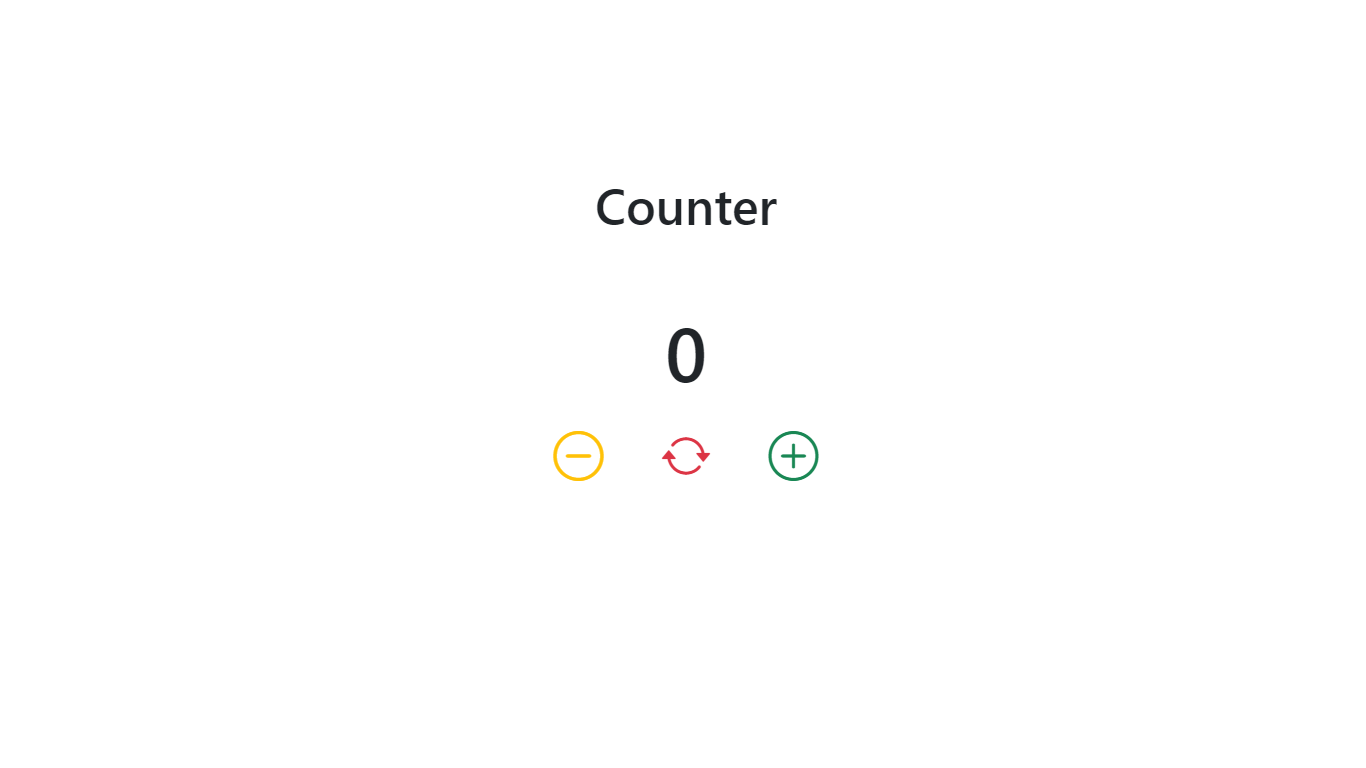
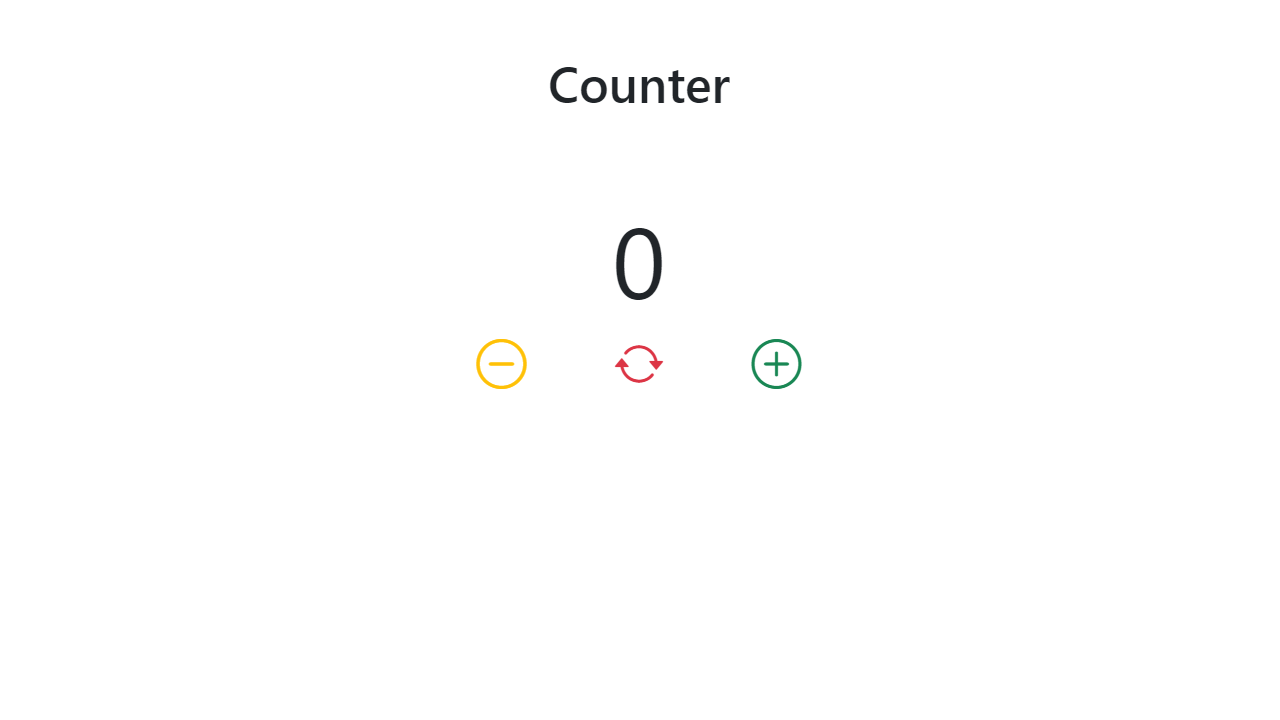
Project 01

diff --git a/src/apps/Counter.js b/src/apps/Counter.js
@@ -24,28 +24,30 @@ const Counter = () => {
     return (
         <>
             <Nav></Nav>
-            <section className='container mt-5 counter-container'>
-                <div className='w-50 text-center mt-5 pb-5'>
-                    {/* heading */}
-                    <div className='h1 mt-5'>
-                        Counter
+            <section className='container mt-5'>
+                <div className='row text-center'>
+                    <div className='col'>
+                        <div className='h1'>
+                            Counter
+                        </div>
                     </div>
-                    {/* body */}
-                    <div className='mt-5'>
+                </div>
+                <div className='row text-center mt-5'>
+                    <div className='col'>
                         <div className='value'>
                             {value}
                         </div>
-                        <div className='buttons row mt-2 w-50 mx-auto pb-5'>
-                            <div onClick={handleSub} className='col-4 text-end'>
-                                <i class="bi bi-dash-circle text-warning fs-1"></i>
-                            </div>
-                            <div onClick={handleReset} className='col-4 text-center'>
-                                <i class="bi bi-arrow-repeat text-danger fs-1"></i>
-                            </div>
-                            <div onClick={handleAdd} className='col-4 text-start'>
-                                <i class="bi bi-plus-circle text-success fs-1"></i>
-                            </div>
-                        </div>
+                    </div>
+                </div>
+                <div className='row text-center buttons'>
+                    <div className='col-3 col-sm-2 col-md-1'>
+                        <i className="bi bi-dash-circle text-warning h1" onClick={handleSub}></i>
+                    </div>
+                    <div className='col-3 col-sm-2 col-md-1'>
+                        <i className="bi bi-arrow-repeat text-danger h1" onClick={handleReset}></i>
+                    </div>
+                    <div className='col-3 col-sm-2 col-md-1'>
+                        <i className="bi bi-plus-circle text-success h1" onClick={handleAdd}></i>
                     </div>
                 </div>
             </section>

diff --git a/src/styles/Counter.css b/src/styles/Counter.css
@@ -1,20 +1,10 @@
-.counter-container {
-    display: flex;
-    flex-direction: column;
-    justify-content: center;
-    align-items: center;
-}
-
-
-/* body */
-
 .value {
-    font-size: 60px;
-    font-weight: 500;
+    font-size: 5rem;
 }
 
 .buttons {
     display: flex;
+    justify-content: center;
 }
 
 i {
